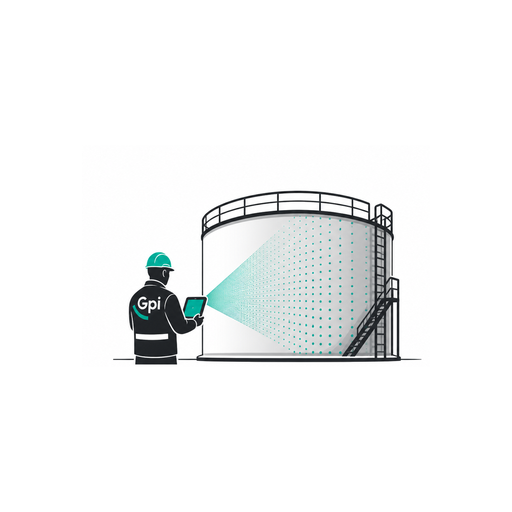
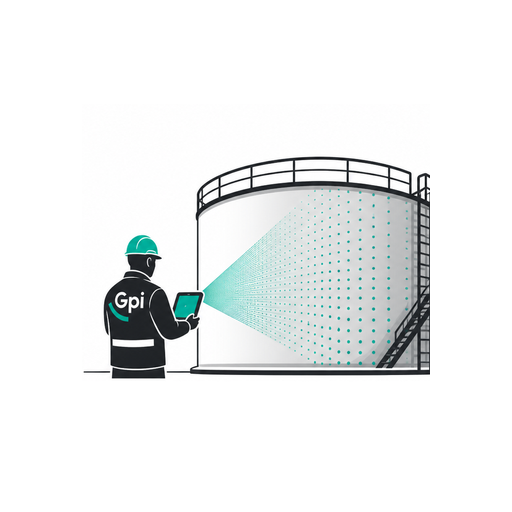
Add files via upload

Changed region(s): [[0.1562, 0.2812, 0.8438, 0.75]]

diff --git a/FloorScan_pilot_v24.html b/FloorScan_pilot_v24.html
@@ -97,6 +97,7 @@ b, strong { font-weight: 600; }
 .top { background: white; border-bottom: 1px solid var(--border); padding: 14px 24px; display: flex; justify-content: space-between; align-items: center; position: sticky; top: 0; z-index: 10; gap: 16px; }
 .top-brand { display: flex; align-items: center; gap: 14px; min-width: 0; }
 .top-brand .logo { height: 32px; width: auto; flex-shrink: 0; }
+.top-brand .logo-scene { height: 44px; width: 44px; flex-shrink: 0; object-fit: contain; }
 .top-brand .divider { width: 1px; height: 24px; background: var(--border); }
 .top-brand .product { display: flex; flex-direction: column; line-height: 1.1; min-width: 0; }
 .top-brand .product .eyebrow { font-size: 10px; font-weight: 600; letter-spacing: 0.12em; text-transform: uppercase; color: var(--teal); }
@@ -300,7 +301,8 @@ h3 { margin: 18px 0 8px; font-size: 11px; color: var(--grey-500); font-weight: 6
   .top h1 .tag { display: none; }
   .top-brand .divider { display: none; }
   .top-brand .product .eyebrow { display: none; }
-  .top-brand img.logo { height: 36px !important; }
+  .top-brand img.logo { height: 32px !important; }
+  .top-brand img.logo-scene { height: 36px !important; width: 36px !important; }
   .top-actions { gap: 6px; flex-wrap: wrap; justify-content: flex-end; flex: 0 1 auto; }
   .top-actions .btn.ghost { padding: 6px 10px; font-size: 13px; min-height: 36px; }
   .sync-status { padding: 6px 10px; font-size: 11px; }
@@ -406,7 +408,7 @@ h3 { margin: 18px 0 8px; font-size: 11px; color: var(--grey-500); font-weight: 6
 //  - Validatie + preview-modal voor import (vervang of merge)
 // Doel-platform: Android tablets (Chrome/Edge) + Windows desktop (Chrome/Edge).
 // ------------------------------------------------------------------
-const FLOORSCAN_VERSION = 'v2.5.2';
+const FLOORSCAN_VERSION = 'v2.5.3';
 
 const STORAGE_KEY = 'floorscan_v2';
 const USER_KEY = 'floorscan_user';
@@ -1769,10 +1771,11 @@ function renderTop() {
   const cw = getCurrentWeek();
   return el('div', { class: 'top' },
     el('div', { class: 'top-brand', onClick: () => navigate('home'), style: 'cursor: pointer;' },
-      el('img', { class: 'logo', src: 'logo-floorscanner-wordmark.png', alt: 'Gpi Floorscanner', style: 'height: 44px;' }),
+      el('img', { class: 'logo-scene', src: 'logo-floorscanner-scene.png', alt: 'Floorscanner', style: 'height: 44px; width: 44px;' }),
+      el('img', { class: 'logo', src: 'logo-floorscanner-wordmark.png', alt: 'Gpi Floorscanner', style: 'height: 40px;' }),
       el('div', { class: 'divider' }),
       el('div', { class: 'product' },
-        el('div', { class: 'eyebrow' }, 'Gpi Tanks \u00b7 Pilot ' + FLOORSCAN_VERSION)
+        el('div', { class: 'eyebrow' }, 'Pilot ' + FLOORSCAN_VERSION)
       )
     ),
     el('div', { class: 'top-actions' },

diff --git a/sw.js b/sw.js
@@ -1,4 +1,4 @@
-/* FloorScan PWA service worker — v2.5.2
+/* FloorScan PWA service worker — v2.5.3
  *
  * Strategy:
  *   - App-shell (HTML, manifest, icons): cache-first, fall back to network.
@@ -41,6 +41,10 @@
  *     gegenereerd met bredere bounds (388x128 ipv 543x96).
  *   - Mobile responsive top-bar: divider en eyebrow verbergen op <700px, top-actions wrappen,
  *     sync-status compacter. Voorkomt dat knoppen over elkaar heen vallen.
+ * v2.5.3 toevoeging:
+ *   - App-iconen +18% gezoomd zodat scene de canvas vult (was te veel witruimte).
+ *   - Top-bar: scene-icoon links toegevoegd (logo-floorscanner-scene.png) ZIJ aan zij met de
+ *     wordmark. Scene-icoon is 44px op desktop, 36px op mobiel.
  *
  * Notes:
  *   - POSTs naar share-target worden afgevangen; alle andere POSTs gaan door.
@@ -49,7 +53,7 @@
  *     network requests, the SW never sees them.
  */
 
-const SW_VERSION = 'v2.5.2';
+const SW_VERSION = 'v2.5.3';
 const CACHE_SHELL = `floorscan-shell-${SW_VERSION}`;
 const CACHE_CDN   = `floorscan-cdn-${SW_VERSION}`;
 const SHARE_INBOX_DB = 'floorscan_share';
@@ -63,6 +67,7 @@ const SHELL_ASSETS = [
   './FloorScan_pilot_v24.html',
   './manifest.webmanifest',
   './logo-floorscanner-wordmark.png',
+  './logo-floorscanner-scene.png',
   './icon-192.png',
   './icon-512.png',
   './icon-512-maskable.png',

diff --git a/README.md b/README.md
@@ -34,6 +34,7 @@ Deze repo wordt gehost via GitHub Pages. De app draait volledig client-side — 
 
 ## Versie
 
+**v2.5.3** (2026-05-02) — App-iconen voller (scene zonder witte rand, +18% zoom). Top-bar krijgt scene-icoon naast wordmark.
 **v2.5.2** (2026-05-02) — Wordmark crop-fix (top van "Gpi" was afgesneden) + mobile responsive top-bar (geen knop-overlap meer op smalle schermen).
 **v2.5.1** (2026-05-02) — Nieuwe Gpi · Floorscanner brand: hero-illustratie (worker+tank+scan-beam) als app-iconen op alle maten. Top-bar wordmark vervangen door Gpi Floorscanner.
 **v2.5.0** (2026-05-02) — Volledige Gpi Group huisstijl: Sofia Sans, teal #00B3A0, sharp corners, top-bar met Gpi Group logo. Cw-banner als donker hero-blok. Indigo AI-box. Theme-color naar GPI teal.
